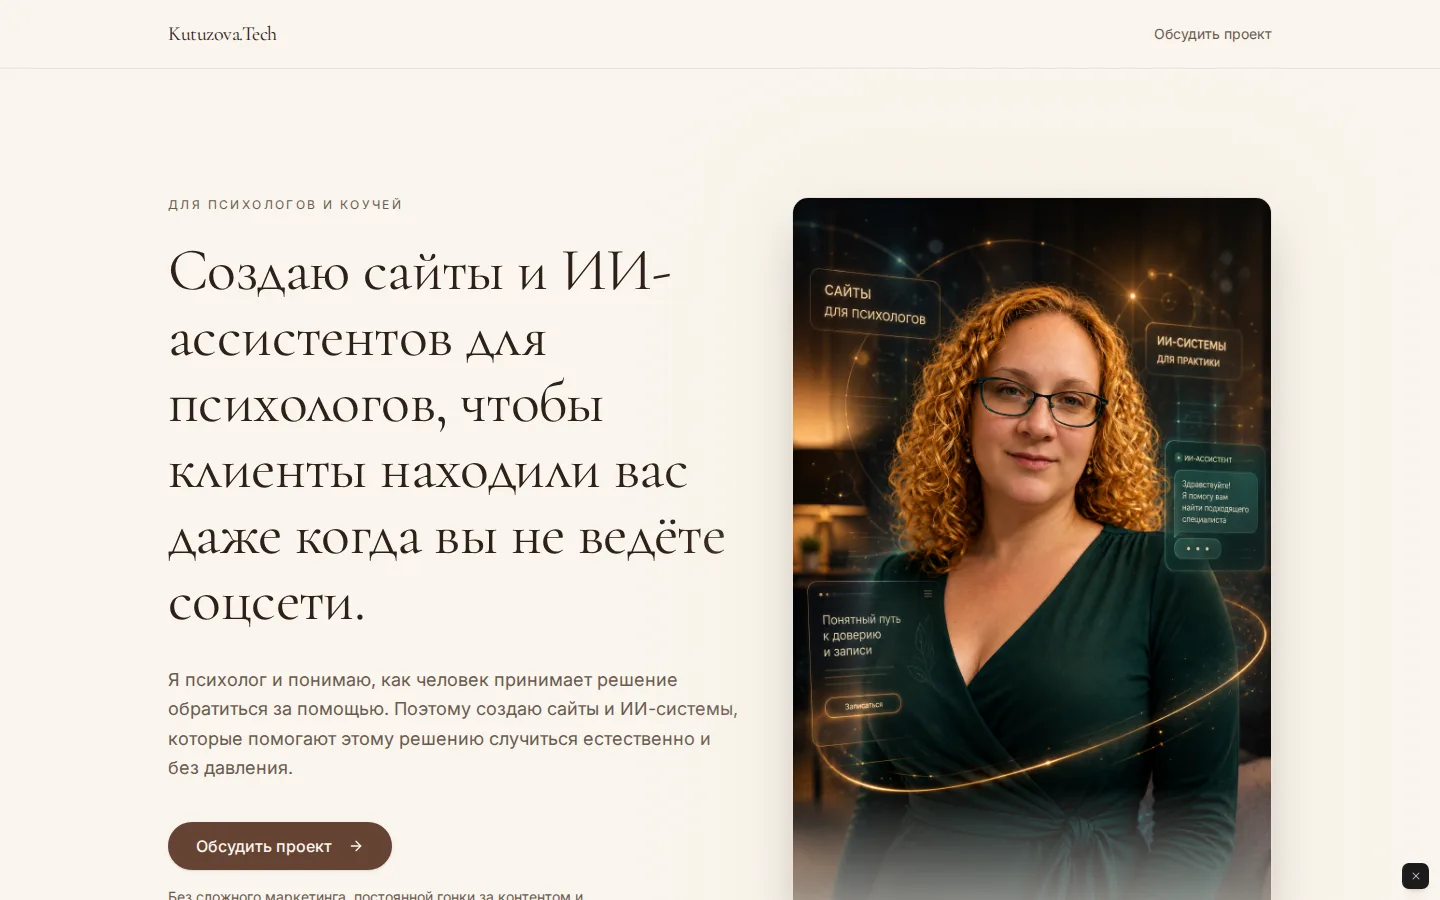
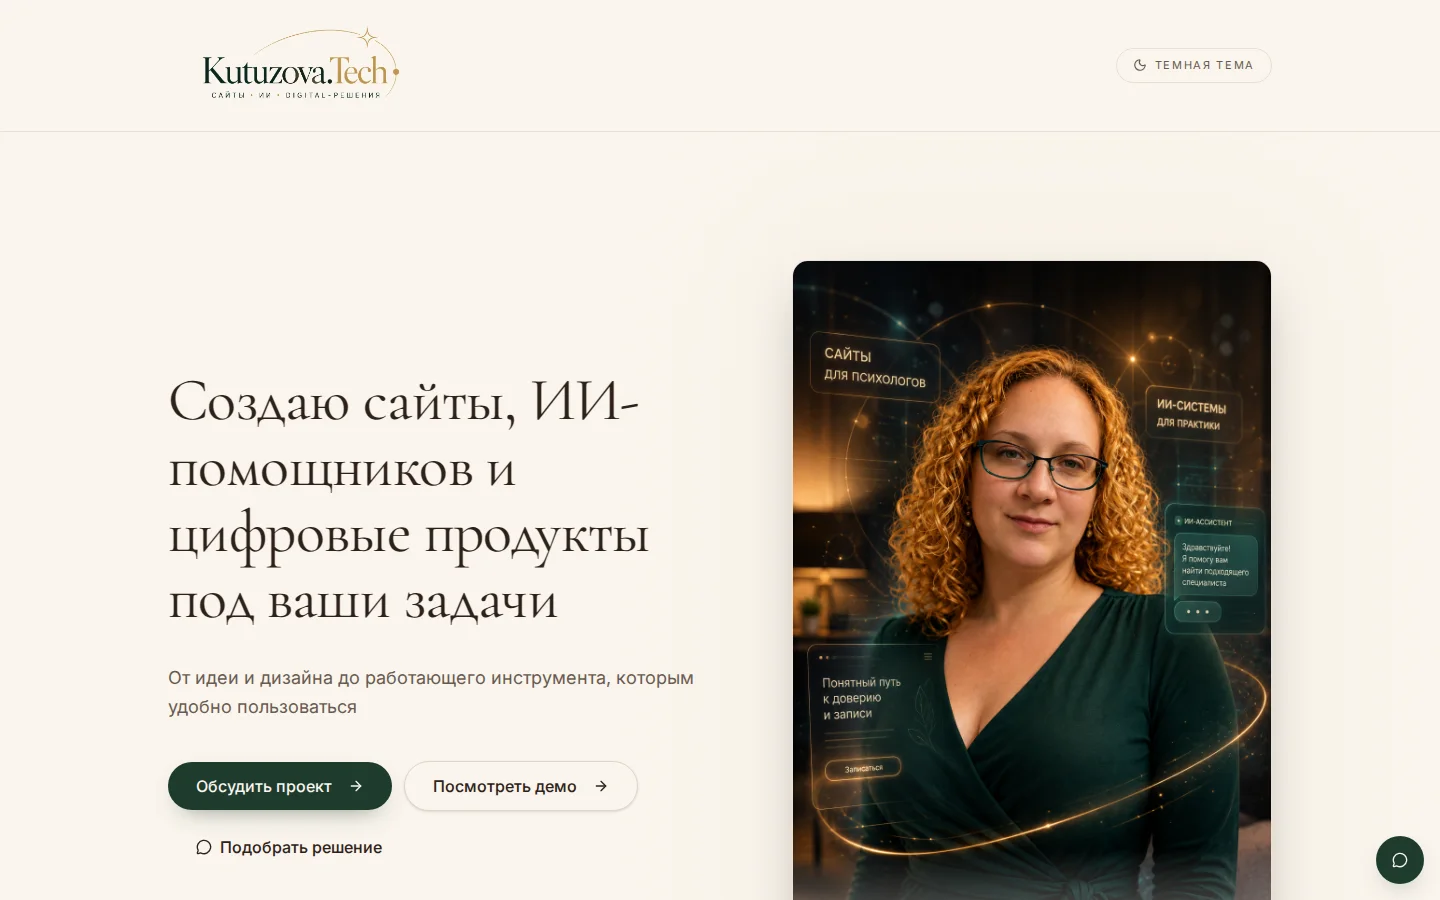
Expand portfolio to 9 projects with updated categories.
Add quizzes and landings, refresh Kutuzova.Tech to Vercel, and show
task/features on cards without inventing SEO rankings or results.

diff --git a/src/content/portfolio/projects.ts b/src/content/portfolio/projects.ts
@@ -2,10 +2,14 @@ import type { PortfolioCategory, PortfolioProject } from "./types";
 
 /** Filter labels — display order on /sites/. */
 export const portfolioCategories: readonly PortfolioCategory[] = [
-  { id: "sites", label: "Сайты" },
+  { id: "sites-landings", label: "Сайты и лендинги" },
+  { id: "quizzes", label: "Квизы" },
+  { id: "apps-tools", label: "Приложения и инструменты" },
   { id: "ai-assistants", label: "ИИ-помощники" },
-  { id: "digital-tools", label: "Цифровые инструменты" },
 ] as const;
+
+const indexingPrepared =
+  "Проект добавлен в Яндекс для индексации. Позиции и поисковый трафик здесь не указываем.";
 
 /**
  * Unified portfolio registry for /sites/.
@@ -16,61 +20,156 @@ export const portfolioProjects: readonly PortfolioProject[] = [
     id: "tvernefteregion",
     slug: "tvernefteregion",
     title: "ТверьНефтеРегион",
-    category: "sites",
-    industry: "Корпоративный сайт · поставки топлива",
-    summary:
-      "Путь заявки: короткая форма готовит текст запроса, клиент сам отправляет его в MAX и может сразу начать диалог.",
+    category: "sites-landings",
+    format: "Корпоративный сайт",
+    task: "Изменить путь заявки на поставку топлива: от ожидания письма к диалогу с менеджером в MAX.",
+    features: [
+      "Короткая форма из трёх шагов",
+      "Готовый текст запроса для клиента",
+      "Переход в MAX, сообщение отправляет сам покупатель",
+    ],
     imageSrc: "/images/cases/tvernefteregion/new-site-home.webp",
     imageAlt: "Главная страница сайта ТверьНефтеРегион",
     detailsHref: "/sites/tvernefteregion/",
+    indexingNote: indexingPrepared,
   },
   {
     id: "filimonova",
     slug: "filimonova",
     title: "Елена Филимонова",
-    category: "sites",
-    industry: "Клиентский сайт · визажист",
-    summary:
-      "Сайт визажиста Елены Филимоновой: услуги, портфолио работ и запись на макияж.",
+    category: "sites-landings",
+    format: "Клиентский сайт визажиста",
+    task: "Показать услуги и работы визажиста и дать понятный путь к записи на макияж.",
+    features: [
+      "Услуги и стоимость",
+      "Портфолио работ",
+      "Онлайн-запись",
+    ],
     imageSrc: "/images/portfolio/filimonova-home.webp",
     imageAlt: "Главная страница сайта визажиста Елены Филимоновой",
     projectUrl: "https://vizazhist-filimonova.ru/",
+    indexingNote: indexingPrepared,
   },
   {
     id: "kutuzova-tech",
     slug: "kutuzova-tech",
     title: "Kutuzova.Tech",
-    category: "sites",
-    industry: "Собственный проект · сайты и цифровые решения",
-    summary:
-      "Лендинг о создании сайтов и цифровых решений: путь клиента от первого касания до записи.",
+    category: "sites-landings",
+    format: "Лендинг с чат-ботом",
+    task: "Объяснить форматы сайтов и цифровых решений и помочь посетителю выбрать следующий шаг.",
+    features: [
+      "Структура от первого касания до записи",
+      "Чат-бот для подбора решения",
+      "Блоки об услугах и демо",
+    ],
     imageSrc: "/images/portfolio/kutuzova-tech-home.webp",
     imageAlt:
-      "Первый экран лендинга Kutuzova.Tech — сайты и цифровые решения",
-    projectUrl: "https://kutuzovatech.lovable.app/",
+      "Первый экран лендинга Kutuzova.Tech — сайты, ИИ и digital-решения",
+    projectUrl: "https://kutuzovatech.vercel.app/",
+    indexingNote: indexingPrepared,
   },
   {
     id: "magic-art",
     slug: "magic-art",
     title: "Magic Art",
-    category: "sites",
-    industry: "Авторский лендинг · интегративное рисование",
-    summary:
-      "Лендинг об интегративном рисовании Magic Art: как устроена практика и как записаться на сессию.",
+    category: "sites-landings",
+    format: "Авторский лендинг",
+    task: "Рассказать об интегративном рисовании Magic Art и провести к записи на практику.",
+    features: [
+      "Описание метода и хода сессии",
+      "Блоки о запросах и формате",
+      "Призыв к записи",
+    ],
     imageSrc: "/images/portfolio/magic-art-home.webp",
     imageAlt: "Главная страница лендинга Magic Art",
     projectUrl: "https://magic-art-kutuzova.vercel.app/",
+    indexingNote: indexingPrepared,
+  },
+  {
+    id: "vibe-coder",
+    slug: "vibe-coder",
+    title: "Вайб-кодер",
+    category: "sites-landings",
+    format: "Лендинг-портфолио",
+    task: "Показать подход к сайтам, интерфейсам и digital-проектам через выразительную подачу.",
+    features: [
+      "Блоки о подходе и услугах",
+      "Визуальный ритм страницы",
+      "Контакты и призыв к действию",
+    ],
+    imageSrc: "/images/portfolio/vibe-coder-home.webp",
+    imageAlt: "Первый экран лендинга Vibe Coder",
+    projectUrl: "https://si5378127-ship-it.github.io/vibe-coder-kutuzova/",
+    indexingNote: indexingPrepared,
+  },
+  {
+    id: "granicy-i-opora",
+    slug: "granicy-i-opora",
+    title: "Границы и опора",
+    category: "sites-landings",
+    format: "Лендинг мастер-класса",
+    task: "Представить онлайн-мастер-класс по личным границам и дать путь к записи.",
+    features: [
+      "Описание формата мастер-класса",
+      "Блоки узнавания и содержания",
+      "Запись на мастер-класс",
+    ],
+    imageSrc: "/images/portfolio/granicy-i-opora-home.webp",
+    imageAlt:
+      "Страница мастер-класса «Мои личные границы» на лендинге «Границы и опора»",
+    projectUrl: "https://granicy-i-opora.lovable.app/masterclass",
+    indexingNote: indexingPrepared,
+  },
+  {
+    id: "elena-quiz",
+    slug: "elena-quiz",
+    title: "Квиз Елены",
+    category: "quizzes",
+    format: "Интерактивный квиз",
+    task: "За несколько вопросов подобрать макияж под настроение, повод и предпочтения.",
+    features: [
+      "6 коротких вопросов",
+      "Подбор образа без регистрации",
+      "Без запроса номера телефона",
+    ],
+    imageSrc: "/images/portfolio/elena-quiz-home.webp",
+    imageAlt: "Стартовый экран квиза визажиста Елены Филимоновой",
+    projectUrl: "https://elena-makeup-quiz.vercel.app/",
+    indexingNote: indexingPrepared,
+  },
+  {
+    id: "gde-ya",
+    slug: "gde-ya",
+    title: "Квиз «Где я?»",
+    category: "quizzes",
+    format: "Интерактивная психологическая практика",
+    task: "Помочь остановиться, обратить внимание на себя и зафиксировать важные мысли.",
+    features: [
+      "Пошаговый сценарий практики",
+      "Ответы остаются в браузере",
+      "Персональная карточка в конце",
+    ],
+    imageSrc: "/images/portfolio/gde-ya-home.webp",
+    imageAlt:
+      "Стартовый экран практики «А где в своей жизни сейчас Я?»",
+    projectUrl: "https://coach-kytyzova.ru/gde-ya/",
+    indexingNote: indexingPrepared,
   },
   {
     id: "moi-finansy",
     slug: "moi-finansy",
     title: "Мои финансы",
-    category: "digital-tools",
-    industry: "Цифровой инструмент · учёт бюджета",
-    summary:
-      "Веб-приложение для учёта доходов, расходов, счетов и переводов с историей операций и экспортом данных.",
+    category: "apps-tools",
+    format: "Веб-приложение",
+    task: "Дать удобный инструмент учёта доходов, расходов, счетов и переводов.",
+    features: [
+      "Доходы, расходы и переводы",
+      "Счета, категории и история",
+      "Экспорт и импорт данных",
+    ],
     imageSrc: "/images/portfolio/moi-finansy-home.webp",
     imageAlt: "Главный экран веб-приложения «Мои финансы»",
     projectUrl: "https://si5378127-ship-it.github.io/kalkulyator-semji/",
+    indexingNote: indexingPrepared,
   },
 ] as const;

diff --git a/src/components/PortfolioProjectCard.tsx b/src/components/PortfolioProjectCard.tsx
@@ -1,0 +1,75 @@
+"use client";
+
+import Image from "next/image";
+import Link from "next/link";
+import type { PortfolioProject } from "@/content/portfolio";
+import { track } from "@/lib/analytics";
+import { withBasePath } from "@/lib/paths";
+import { cn } from "@/lib/seo";
+
+type PortfolioProjectCardProps = {
+  project: PortfolioProject;
+  className?: string;
+};
+
+export function PortfolioProjectCard({
+  project,
+  className,
+}: PortfolioProjectCardProps) {
+  const href = project.detailsHref || project.projectUrl;
+  const external = Boolean(project.projectUrl && !project.detailsHref);
+
+  return (
+    <article
+      className={cn("surface-card soft-shadow overflow-hidden", className)}
+      onClick={() => track("case_view", { title: project.title })}
+    >
+      <div className="relative aspect-[16/10] bg-bg-soft">
+        <Image
+          src={
+            project.imageSrc.startsWith("/")
+              ? withBasePath(project.imageSrc)
+              : project.imageSrc
+          }
+          alt={project.imageAlt}
+          fill
+          className="object-cover object-top"
+          sizes="(max-width: 768px) 100vw, 50vw"
+        />
+      </div>
+      <div className="p-6">
+        <p className="mb-2 text-xs uppercase tracking-[0.18em] text-gold-muted">
+          {project.format}
+        </p>
+        <h3 className="heading-serif text-2xl text-ink">{project.title}</h3>
+        <p className="mt-4 text-sm leading-relaxed text-ink-muted">
+          <span className="text-ink">Задача: </span>
+          {project.task}
+        </p>
+        <div className="mt-4">
+          <p className="text-sm text-ink">Основные функции:</p>
+          <ul className="mt-2 list-disc space-y-1 pl-5 text-sm leading-relaxed text-ink-muted">
+            {project.features.map((item) => (
+              <li key={item}>{item}</li>
+            ))}
+          </ul>
+        </div>
+        {project.indexingNote ? (
+          <p className="mt-4 text-xs leading-relaxed text-ink-dim">
+            {project.indexingNote}
+          </p>
+        ) : null}
+        {href ? (
+          <Link
+            href={href}
+            className="focus-ring mt-5 inline-flex text-sm text-gold-muted underline-offset-4 hover:underline"
+            target={external ? "_blank" : undefined}
+            rel={external ? "noopener noreferrer" : undefined}
+          >
+            Посмотреть проект →
+          </Link>
+        ) : null}
+      </div>
+    </article>
+  );
+}

diff --git a/src/app/cases/page.tsx b/src/app/cases/page.tsx
@@ -11,7 +11,7 @@ import { buildMetadata } from "@/lib/seo";
 export const metadata: Metadata = buildMetadata({
   title: "Портфолио",
   description:
-    "Сайты, цифровые инструменты и ИИ-помощники. Подтверждённые проекты — без выдуманных цифр посещаемости и продаж.",
+    "Сайты и лендинги, квизы, приложения и инструменты. Подтверждённые проекты — без выдуманных цифр посещаемости и продаж.",
   path: "/cases",
 });
 
@@ -22,7 +22,7 @@ export default function CasesPage() {
         <SectionHeading
           as="h1"
           title="Портфолио"
-          description="Подтверждённые проекты — без выдуманных цифр посещаемости и продаж. Можно отфильтровать по категории."
+          description="Подтверждённые проекты с акцентом на задачу и функции. Можно отфильтровать по категории — без выдуманных цифр посещаемости и продаж."
         />
         <div className="mt-10">
           <PortfolioGallery

diff --git a/src/content/portfolio/types.ts b/src/content/portfolio/types.ts
@@ -1,12 +1,13 @@
 /**
  * Unified portfolio cards for /sites/.
- * Keep copy factual — no invented results, metrics, or testimonials.
+ * Keep copy factual — no invented results, rankings, traffic, or testimonials.
  */
 
 export type PortfolioCategoryId =
-  | "sites"
-  | "ai-assistants"
-  | "digital-tools";
+  | "sites-landings"
+  | "quizzes"
+  | "apps-tools"
+  | "ai-assistants";
 
 export type PortfolioCategory = {
   id: PortfolioCategoryId;
@@ -18,9 +19,12 @@ export type PortfolioProject = {
   slug: string;
   title: string;
   category: PortfolioCategoryId;
-  /** Short type / industry line on the card */
-  industry: string;
-  summary: string;
+  /** Product format, e.g. «Клиентский сайт», «Квиз» */
+  format: string;
+  /** What task / problem the project addresses */
+  task: string;
+  /** Main functions shown on the card */
+  features: readonly string[];
   imageSrc: string;
   imageAlt: string;
   /**
@@ -30,4 +34,9 @@ export type PortfolioProject = {
   detailsHref?: string;
   /** Live project URL when there is no internal case page */
   projectUrl?: string;
+  /**
+   * Optional factual note about Yandex indexing preparation.
+   * Do not claim rankings or traffic without Webmaster/Metrika confirmation.
+   */
+  indexingNote?: string;
 };

diff --git a/src/components/PortfolioGallery.tsx b/src/components/PortfolioGallery.tsx
@@ -1,7 +1,7 @@
 "use client";
 
 import { useMemo, useState } from "react";
-import { CaseCard } from "@/components/CaseCard";
+import { PortfolioProjectCard } from "@/components/PortfolioProjectCard";
 import type {
   PortfolioCategory,
   PortfolioCategoryId,
@@ -70,18 +70,7 @@ export function PortfolioGallery({
       {visible.length > 0 ? (
         <div className="mt-8 grid gap-6 sm:grid-cols-2">
           {visible.map((project) => (
-            <CaseCard
-              key={project.id}
-              title={project.title}
-              industry={project.industry}
-              summary={project.summary}
-              imageSrc={project.imageSrc}
-              imageAlt={project.imageAlt}
-              detailsHref={project.detailsHref}
-              projectUrl={
-                project.detailsHref ? undefined : project.projectUrl
-              }
-            />
+            <PortfolioProjectCard key={project.id} project={project} />
           ))}
         </div>
       ) : (

diff --git a/src/content/home.ts b/src/content/home.ts
@@ -118,7 +118,7 @@ export const homeContent = {
   },
   cases: {
     title: "Портфолио",
-    text: "Сайты, цифровые инструменты и ИИ-помощники. Клиентские кейсы и собственные проекты — без выдуманных цифр и отзывов.",
+    text: "Сайты и лендинги, квизы, приложения и инструменты. Показываю функциональность и решаемые задачи — без выдуманных цифр, позиций в поиске и отзывов.",
   },
   about: {
     title: "Смотрю на сайт и как психолог, и как создатель цифровых систем",

diff --git a/src/content/brand-home.ts b/src/content/brand-home.ts
@@ -124,8 +124,8 @@ export const brandHomeContent = {
         title: "Kutuzova.Tech",
         category: "Сайты",
         summary:
-          "Собственный лендинг о создании сайтов и цифровых решений для психологов и помогающих специалистов.",
-        href: "https://kutuzovatech.lovable.app/" as string | undefined,
+          "Собственный лендинг с чат-ботом о создании сайтов и цифровых решений.",
+        href: "https://kutuzovatech.vercel.app/" as string | undefined,
       },
       {
         id: "magic-art",
